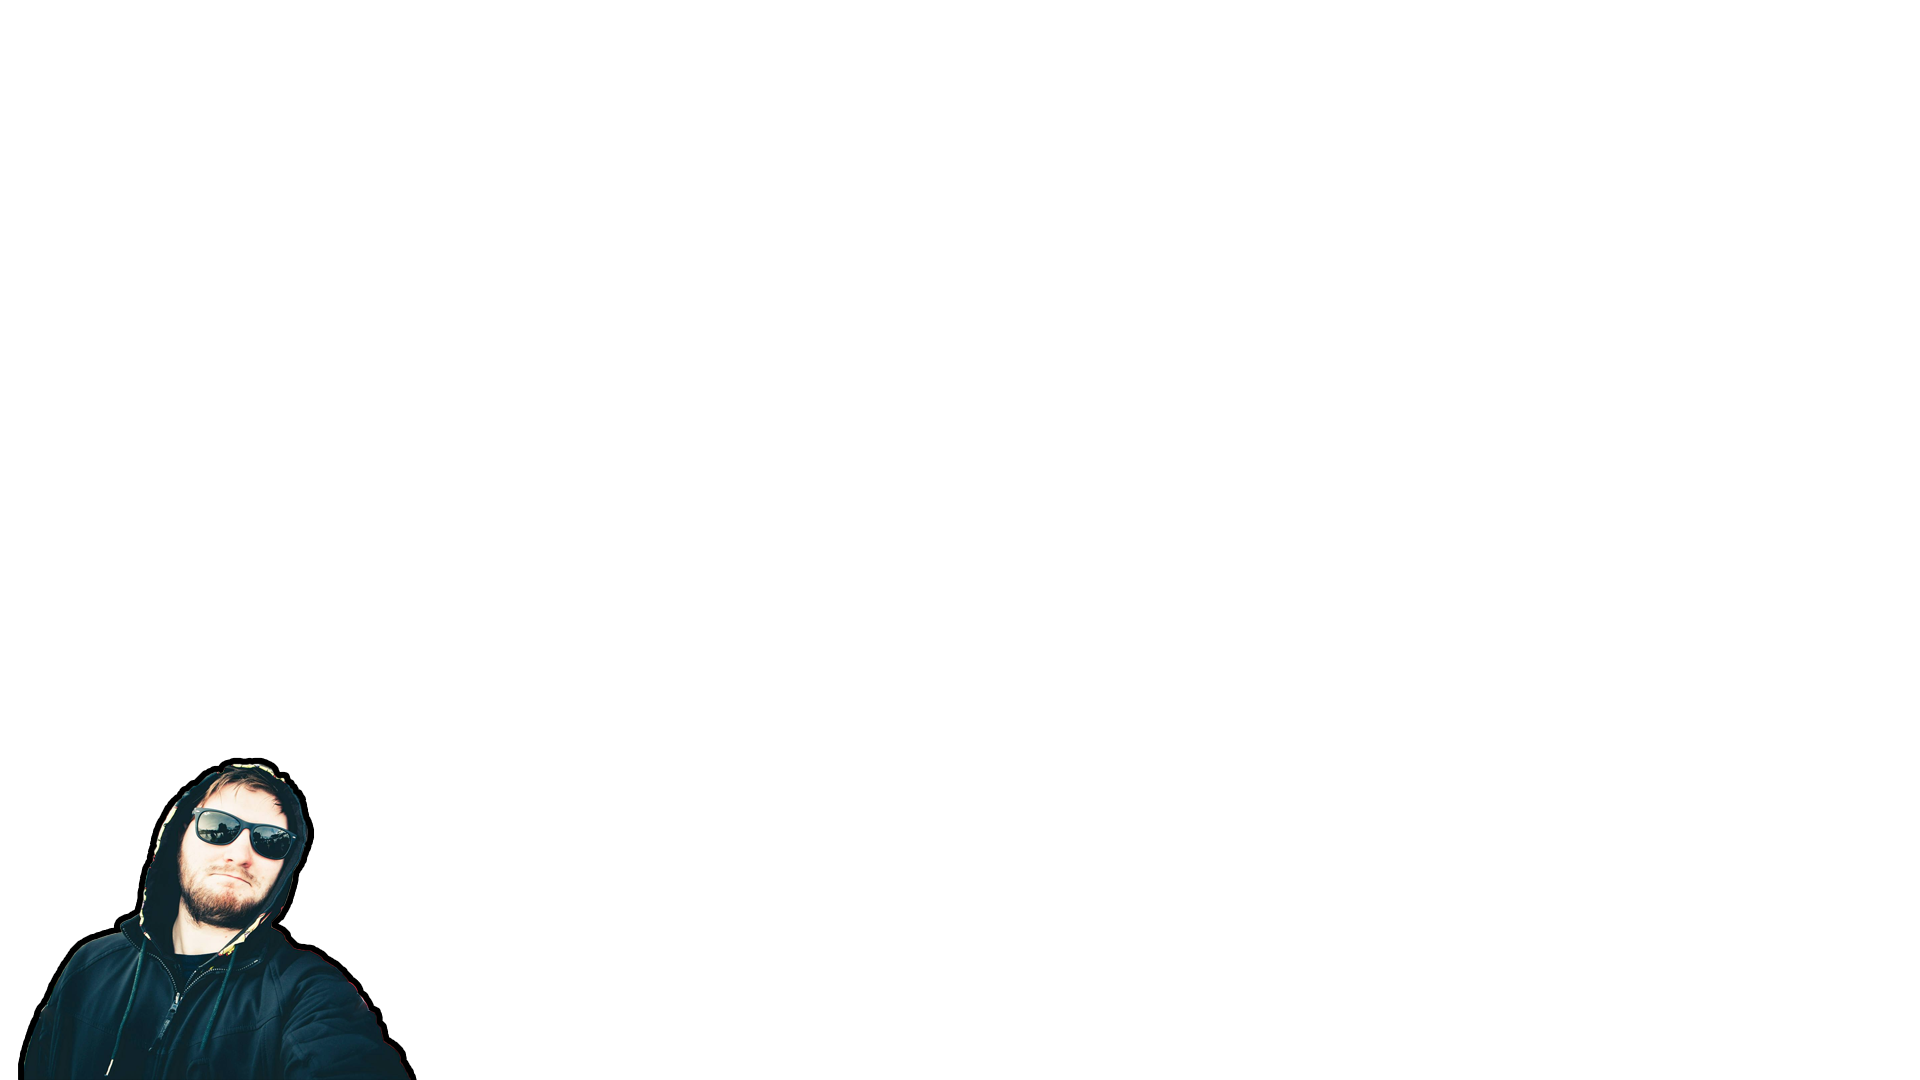
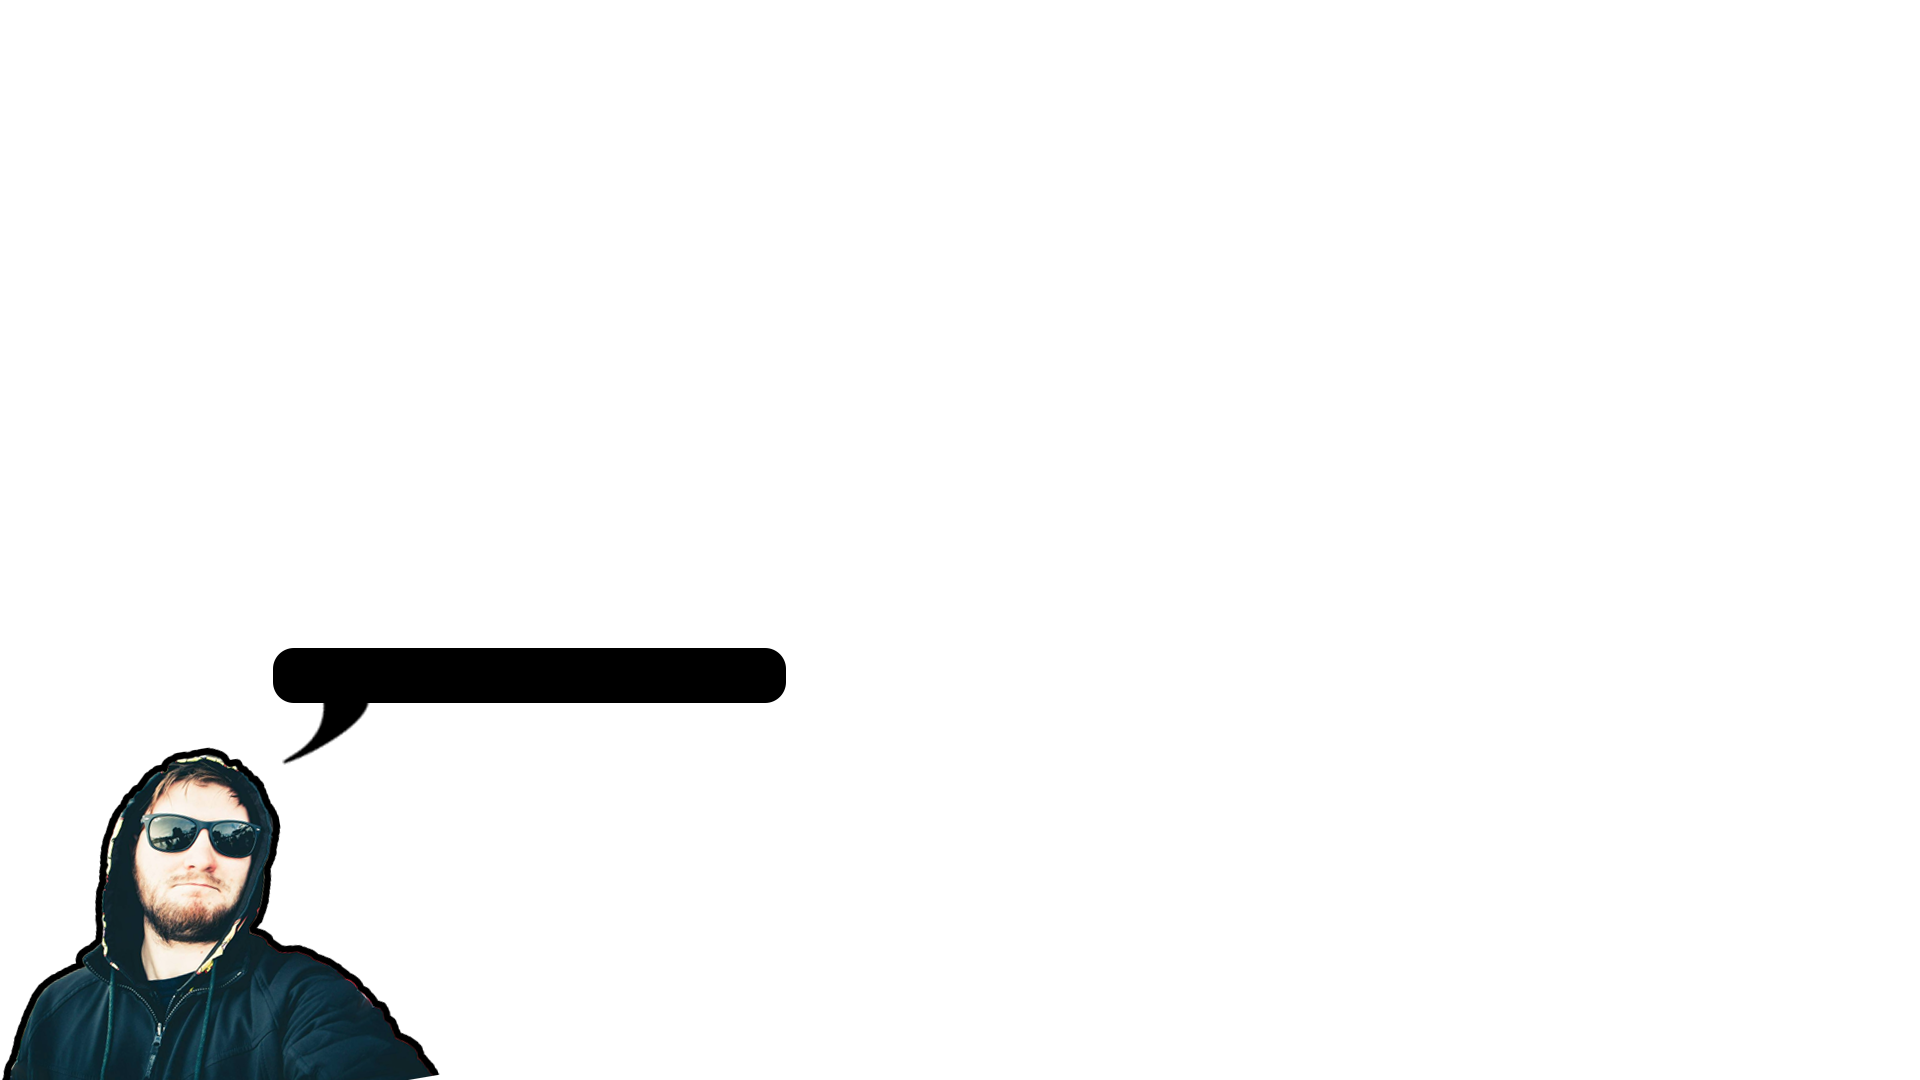
more people

Changed region(s): [[0.0, 0.6722, 0.1875, 1.0], [0.125, 0.5806, 0.4062, 0.7028], [0.1875, 0.9167, 0.25, 1.0]]

diff --git a/external.php b/external.php
@@ -52,19 +52,34 @@
                 <span class="mdl-radio__label">Black Border (Think) + Scaled Glass
                 </span>
               </label><br>    <h5>Fun & Alternatives </h5>  
+                <div class="mdl-textfield mdl-js-textfield mdl-textfield--floating-label">
+                            <input name="squigbubble" class="mdl-textfield__input" type="text">
+                            <label class="mdl-textfield__label" for="squigbubble">Bubble Text (current: "<?php include "external/squig.txt";?>")
+                </label>
+                        </div><br>
               <label class="mdl-radio mdl-js-radio mdl-js-ripple-effect" for="uncle">
                 <input type="radio" id="uncle" class="mdl-radio__button" name="eXternal" value="uncle">
-                <span class="mdl-radio__label">Uncle Squig
-                </span>  
-              </label><div class="mdl-textfield mdl-js-textfield mdl-textfield--floating-label">
-                            <input name="squigbubble" class="mdl-textfield__input" type="text">
-                            <label class="mdl-textfield__label" for="squigbubble">Bubble Text
-                </label>
-                        </div>
-                        <br>
+                <span class="mdl-radio__label">Uncle Squig (Bubble Enabled)
+                </span>
+              </label> <br>
               <label class="mdl-radio mdl-js-radio mdl-js-ripple-effect" for="florian">
                 <input type="radio" id="florian" class="mdl-radio__button" name="eXternal" value="florian">
-                <span class="mdl-radio__label">Florian 
+                <span class="mdl-radio__label">Florian (Bubble Enabled)
+                </span>
+              </label><br>  
+              <label class="mdl-radio mdl-js-radio mdl-js-ripple-effect" for="sarahjane">
+                <input type="radio" id="sarahjane" class="mdl-radio__button" name="eXternal" value="sarahjane">
+                <span class="mdl-radio__label">Sarah-Jane (Bubble Enabled)
+                </span>
+              </label><br>    
+              <label class="mdl-radio mdl-js-radio mdl-js-ripple-effect" for="trevor">
+                <input type="radio" id="trevor" class="mdl-radio__button" name="eXternal" value="trevor">
+                <span class="mdl-radio__label">Trevor (Bubble Enabled)
+                </span>
+              </label><br>     
+              <label class="mdl-radio mdl-js-radio mdl-js-ripple-effect" for="natdanflo">
+                <input type="radio" id="natdanflo" class="mdl-radio__button" name="eXternal" value="natdanflo">
+                <span class="mdl-radio__label">Natalie, Daniel, Florian (Bubble Enabled)
                 </span>
               </label><br>  
               <label class="mdl-radio mdl-js-radio mdl-js-ripple-effect" for="saturday">

diff --git a/externalcode.php b/externalcode.php
@@ -1,5 +1,8 @@
 <?php
 
+$bubbleclear ="❕"; 
+$bubblereplace ="❕"; 
+
 $eXternal = strip_tags($_POST['eXternal']);
 $stocks = strip_tags($_POST['stocks']);
 $squigbubble = strip_tags($_POST['squigbubble']);
@@ -80,6 +83,24 @@ chdir('/home/pi/led-matrix-controller/www/external/scripts/fun/');
 $output = shell_exec('./florian.sh > /dev/null 2>/dev/null &');
 chdir($old_path);
 }
+if ($eXternal == "sarahjane"){
+$old_path = getcwd();
+chdir('/home/pi/led-matrix-controller/www/external/scripts/fun/');
+$output = shell_exec('./sarahjane.sh > /dev/null 2>/dev/null &');
+chdir($old_path);
+}
+if ($eXternal == "trevor"){
+$old_path = getcwd();
+chdir('/home/pi/led-matrix-controller/www/external/scripts/fun/');
+$output = shell_exec('./trevor.sh > /dev/null 2>/dev/null &');
+chdir($old_path);
+}
+if ($eXternal == "natdanflo"){
+$old_path = getcwd();
+chdir('/home/pi/led-matrix-controller/www/external/scripts/fun/');
+$output = shell_exec('./natdanflo.sh > /dev/null 2>/dev/null &');
+chdir($old_path);
+}
 if ($eXternal == "karaoke"){
 $old_path = getcwd();
 chdir('/home/pi/led-matrix-controller/www/external/scripts/fun/');
@@ -154,9 +175,10 @@ $newfilesquig = '/home/pi/led-matrix-controller/www/external/squig.txt';
 // clear the old external file (ignore)
 if ($squigbubble != ""){
 if (!copy($fileext, $newfilesquig)) { 
-echo "<h3>Sq-CLR: 🚫</h3>   "; 
+$bubbleclear ="❌"; 
 } 
 else{
+$bubbleclear ="✅";
 $old_path = getcwd();
 chdir('/home/pi/led-matrix-controller/www/external/scripts/fun/');
 $output = shell_exec('./squig.sh > /dev/null 2>/dev/null &');
@@ -167,13 +189,9 @@ if ($sq) {
 fwrite ($sq, $squigbubble);
 fclose ($sq);
 }
-echo "<h3>Sq-CLR: ✅</h3>   ";
+$bubblereplace ="✅";
 }
 }
-
-
-
-
 
 
 ?>

diff --git a/visuals/fun/natdanflo.php b/visuals/fun/natdanflo.php
@@ -8,7 +8,7 @@ html, body{
   height: 100%;
 }
 body { 
-			background-image: url(squig.png) ;
+			background-image: url(natdanflo.png) ;
 			background-position: center center;
 			background-repeat:  no-repeat;
 			background-attachment: fixed;

diff --git a/visuals/fun/sarahjane.php b/visuals/fun/sarahjane.php
@@ -8,7 +8,7 @@ html, body{
   height: 100%;
 }
 body { 
-			background-image: url(squig.png) ;
+			background-image: url(sarahjane.png) ;
 			background-position: center center;
 			background-repeat:  no-repeat;
 			background-attachment: fixed;

diff --git a/visuals/fun/florian.php b/visuals/fun/florian.php
@@ -8,7 +8,7 @@ html, body{
   height: 100%;
 }
 body { 
-			background-image: url(squig.png) ;
+			background-image: url(florian.png) ;
 			background-position: center center;
 			background-repeat:  no-repeat;
 			background-attachment: fixed;

diff --git a/visuals/fun/trevor.php b/visuals/fun/trevor.php
@@ -8,7 +8,7 @@ html, body{
   height: 100%;
 }
 body { 
-			background-image: url(squig.png) ;
+			background-image: url(trevor.png) ;
 			background-position: center center;
 			background-repeat:  no-repeat;
 			background-attachment: fixed;
